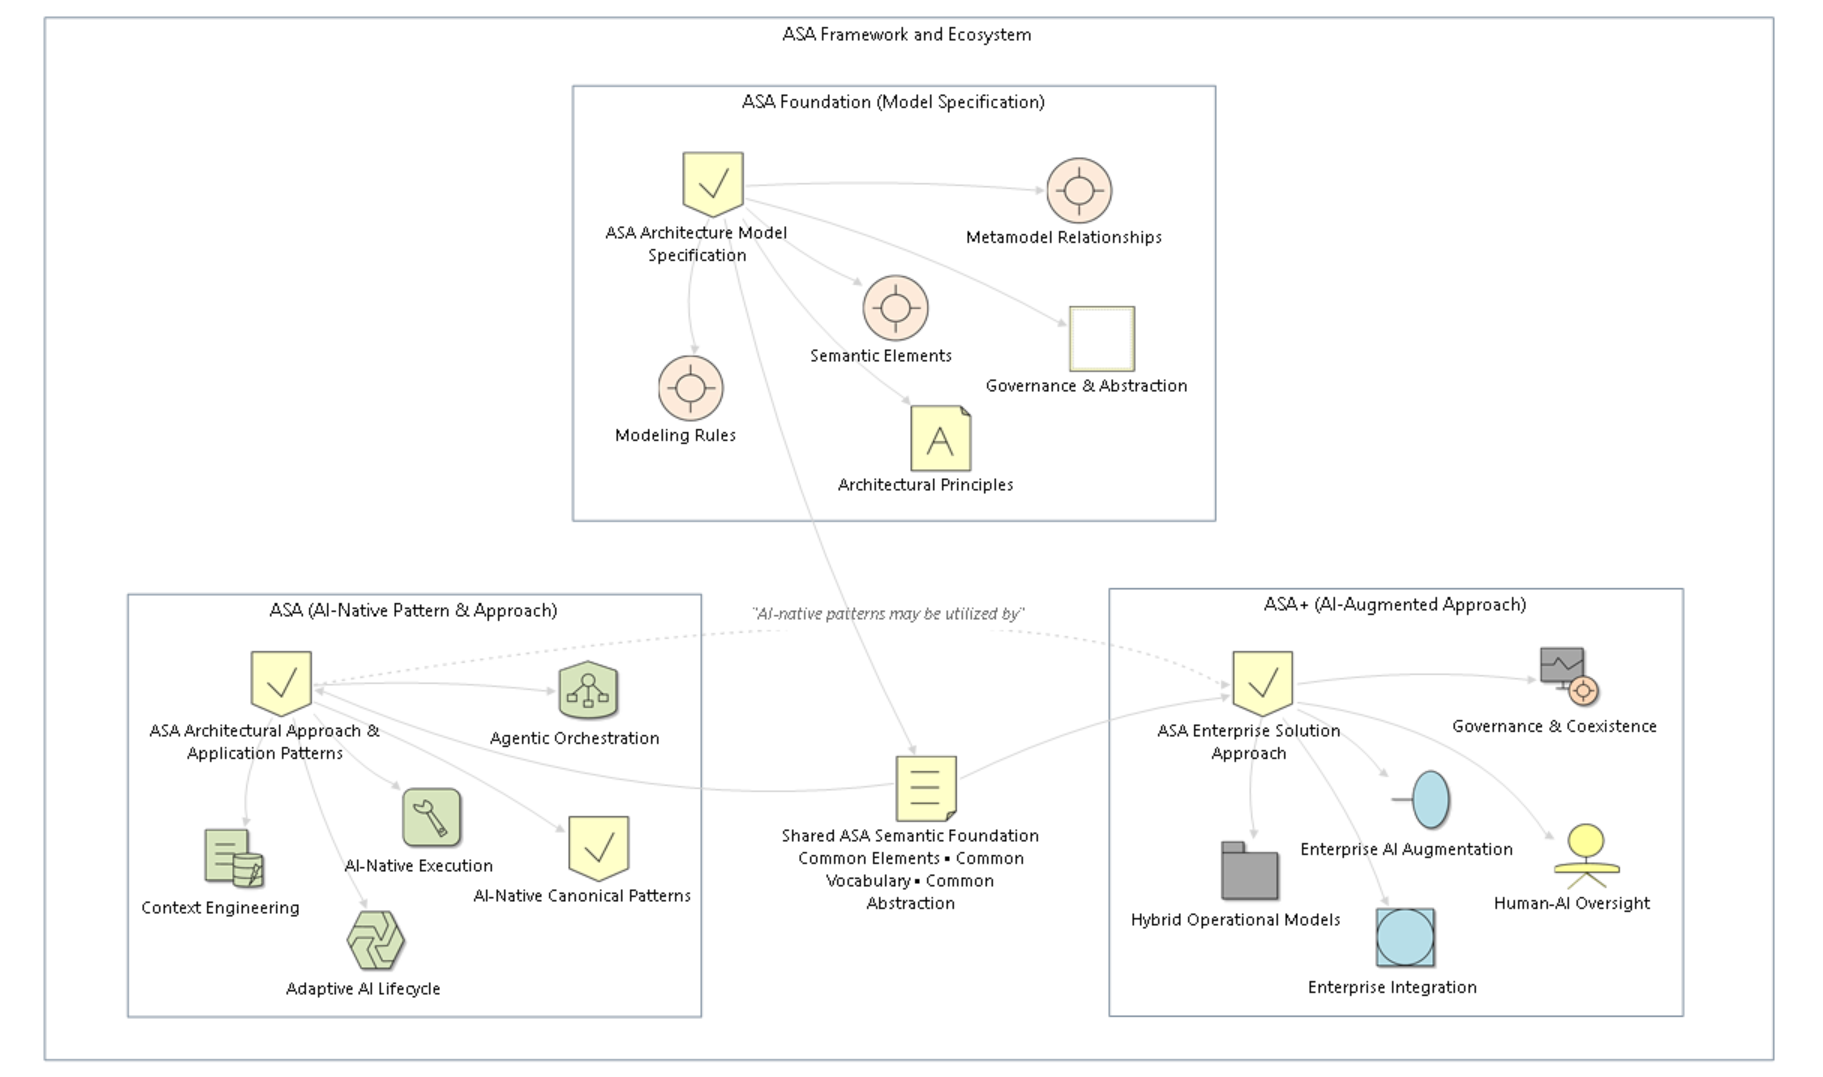
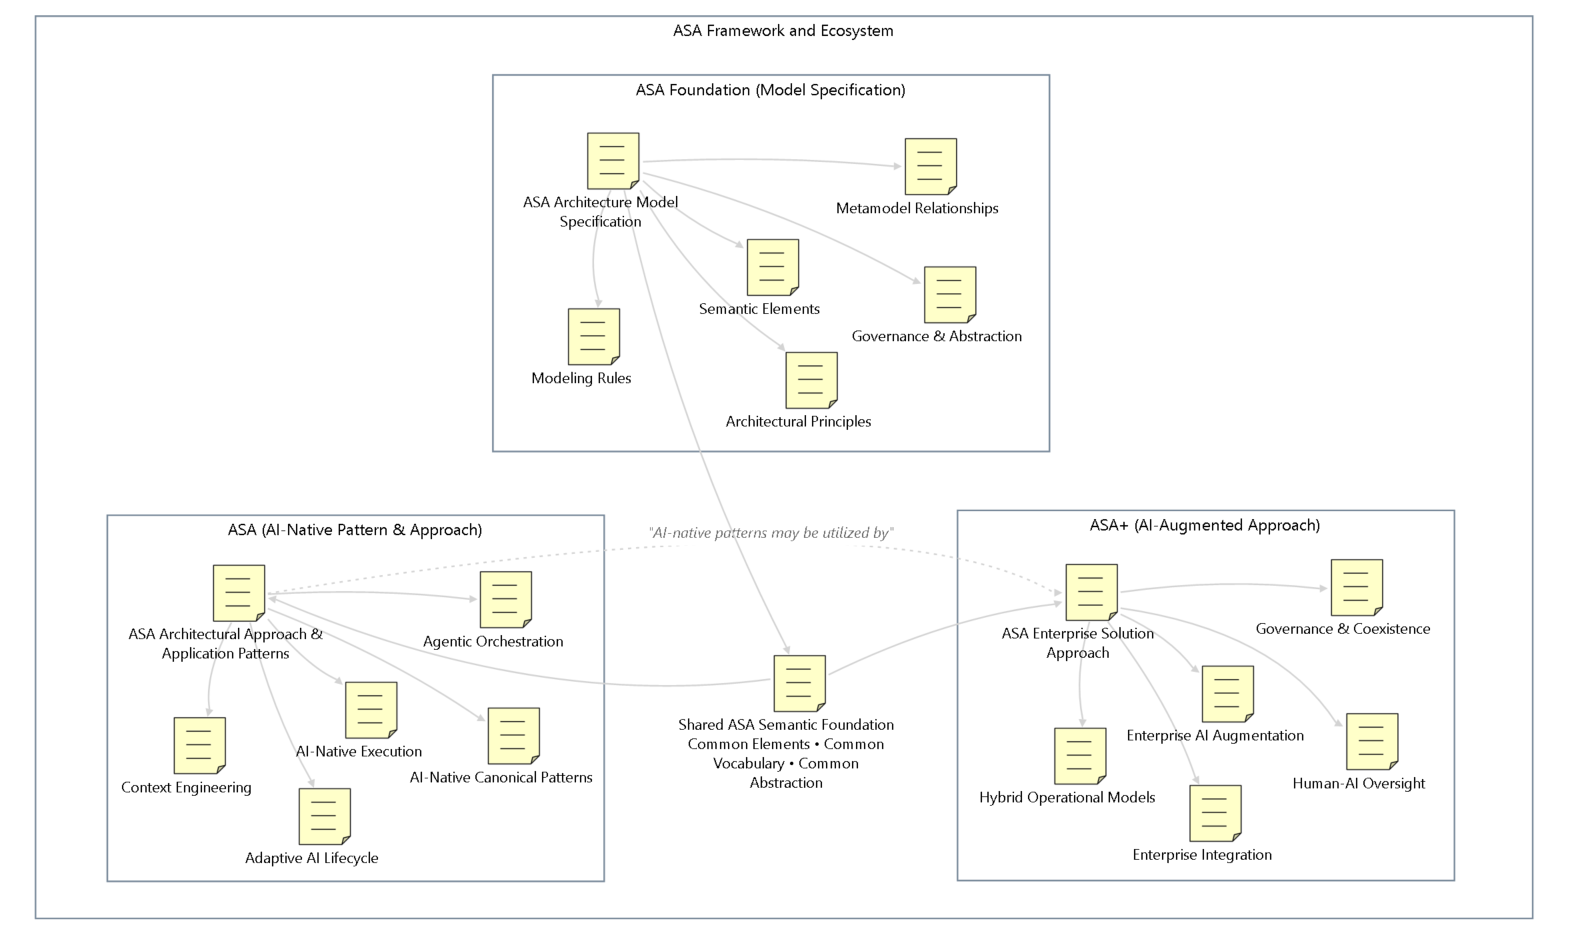
asa proofreading

diff --git a/docs/relationship-of-ai-esa-to-aisa-and-aasa.md b/docs/relationship-of-ai-esa-to-aisa-and-aasa.md
@@ -1,6 +1,6 @@
-# Relationship of the ASA Model Specification to ASA and ASA+ Apporaches
+# Relationship of the ASA Model Specification to ASA and ASA+ Approaches
 
-This section briefly describes the relationship among ASA (AI Solution Architecture) model specification, ASA (AI Solution Architecture Approach & Pattern), and AIS+ (AI-Augmented Solution Architecture Approach). Figure 1 shows the overall relationship.
+This section briefly describes the relationship among ASA (AI Solution Architecture) model specification, ASA (AI Solution Architecture Approach & Pattern), and ASA+ (AI-Augmented Solution Architecture Approach). Figure 1 shows the overall relationship.
 
 ![ASA Relationships](images/asa-relationships.png "ASA Relationships")
 
@@ -8,7 +8,7 @@ This section briefly describes the relationship among ASA (AI Solution Architect
 
 ## ASA Model’s Emphasis on ASA and ASA+
 
-The ASA elements are used in both ASA and ASA+ approaches, but they differ in terms of primary emphasis, architectural centrality, and operational dominance. Table 1 illustrates how elements are prioritized across ASA and AIS+, categorized as primary, secondary, or shared/foundation elements.
+The ASA elements are used in both ASA and ASA+ approaches, but they differ in terms of primary emphasis, architectural centrality, and operational dominance. Table 1 illustrates how elements are prioritized across ASA and ASA+, categorized as primary, secondary, or shared/foundation elements.
 
 | **Element**          | **ASA Emphasis** | ASA+ Emphasis | **Notes**                                                     |
 | -------------------- | ---------------- | ------------- | ------------------------------------------------------------- |
@@ -47,7 +47,7 @@ The ASA elements are used in both ASA and ASA+ approaches, but they differ in te
 
 Note that AI-native does NOT mean "pure agents," or "everything autonomous."
 
-Real enterprise AI solutions still need:
+- Real enterprise AI solutions still need:
 
 - Orchestration and deterministic logic,
 
@@ -55,7 +55,7 @@ Real enterprise AI solutions still need:
 
 - Observability and operational control.
 
-Both ASA and ASA+ approaches use the ASA element specification for modeling. ASA focuses on AI-native and AI-primitive patterns, whereas AIS+ emphasizes AI-augmented solution architecture.
+Both ASA and ASA+ approaches use the ASA element specification for modeling. ASA focuses on AI-native and AI-primitive patterns, whereas ASA+ emphasizes AI-augmented solution architecture.
 
 ### Shared Core
 
@@ -73,9 +73,9 @@ Both ASA and ASA+ approaches use the ASA element specification and share a commo
 
 ### Key Differences
 
-Table 2 summarizes the key differences between ASA (AI-Native Solution Architecture) and AIS+ (AI-Augmented Solution Architecture) in their respective AI adoption strategies.
+Table 2 summarizes the key differences between ASA (AI-Native Solution Architecture) and ASA+ (AI-Augmented Solution Architecture) in their respective AI adoption strategies.
 
-| **Aspect**                     | **ASA(AI Solution Architecture)**                                      | **ASA+ (AI-Augmented Solution Architecture)**                                                   |
+| **Aspect**                     | **ASA (AI Solution Architecture)**                                     | **ASA+ (AI-Augmented Solution Architecture)**                                                   |
 | ------------------------------ | ---------------------------------------------------------------------- | ----------------------------------------------------------------------------------------------- |
 | Primary Orientation            | AI-native execution orientation                                        | Enterprise coexistence orientation                                                              |
 | Core Philosophy                | AI-first operationalization                                            | Gradual AI absorption and coexistence                                                           |
@@ -104,7 +104,7 @@ Or, more simply, their differences can be expressed as follows:
 
 - agent-first abstraction
 
-**AIS+**
+**ASA+**
 
 - enterprise coexistence
 
@@ -114,7 +114,7 @@ Or, more simply, their differences can be expressed as follows:
 
 - operational continuity
 
-In summary, ASA model serves as the foundational specification and semantic abstraction. ASA represents an AI-native architectural operationalization approach. AIS+, in contrast, is an enterprise architecture focused on AI coexistence and augmentation.
+In summary, ASA model serves as the foundational specification and semantic abstraction. ASA represents an AI-native architectural operationalization approach. ASA+, in contrast, is an enterprise architecture focused on AI coexistence and augmentation.
 
 ## About ASA Naming
 
@@ -128,15 +128,15 @@ Within this context:
 
 - **ASA Approach** = the AI-native architectural domain, approach, and practice
 
-- **AIS+** = the adaptive, integrative, and AI-augmented architectural extension approach
+- **ASA+** = the adaptive, integrative, and AI-augmented architectural extension approach
 
-For terminology alignment and continuity, AIS-related concepts may also be referred to as:
+For terminology alignment and continuity, ASA-related concepts may also be referred to as:
 
 - **AI-ESA** (AI Enterprise Solution Architecture), referring to the ASA model or framework foundation
 
 - **AISA** (AI Solution Architecture), referring to ASA approach
 
-- **AASA** (AI-Augmented Solution Architecture), referring to AIS+ approach
+- **AASA** (AI-Augmented Solution Architecture), referring to ASA+ approach
 
 In general usage, **ASA** represents the overall architectural language, framework family, and associated architectural landing approaches.
 

diff --git a/docs/ai-esa-specification.md b/docs/ai-esa-specification.md
@@ -30,7 +30,7 @@ ASA (also referred to as AI-ESA) is based on the enterprise solution architectur
 
 ## Modeling Approach
 
-ASA follows its foundational ESA modeling approach, which consists of six constituents: thinking framework, method specification (foundation specification), architectural styles, measurement criteria, governance techniques, and tool support derived from practical enterprise solution projects (see *References*). This document focuses only on the AIS element specification, which is a subset of the broader ESA modeling approach.
+ASA follows its foundational ESA modeling approach, which consists of six constituents: thinking framework, method specification (foundation specification), architectural styles, measurement criteria, governance techniques, and tool support derived from practical enterprise solution projects (see *References*). This document focuses only on the ASA element specification, which is a subset of the broader ESA modeling approach.
 
 ### Principle
 
@@ -97,7 +97,7 @@ Table 1 provides a brief definition of 30 ASA elements, usage examples or instan
 | Output               | Represents the results, recommendations, and responses produced by the solution.                                                                     | Generated artifacts, predictions, recommendations, confirmations, decisions, reports, notifications, feedback to users, and results produced by the solution.                                                                                                                                                                                                                                                                                                                                                       |
 | Note                 | Represents commentary, annotation, or interpretive explanation of the architecture.                                                                  | Clarifying comments on complex interactions, interpretive notes, and contextual explanations added to views for enhanced communication.                                                                                                                                                                                                                                                                                                                                                                             |
 
-*Table 1:  AIS Element Definition*
+*Table 1:  ASA Element Definition*
 
 ### Element Representative Notation
 
@@ -136,7 +136,7 @@ Table 2 presents the recommended prefixes and iconic notations used in the ASA s
 | Output               | OU         | ![Output](images/OU.png "Output")                             |
 | Note                 | NT         | ![Note](images/NT.png "Note")                                 |
 
-*Table 2: AIS Element Representative Notation*
+*Table 2: ASA Element Representative Notation*
 
 ### Element Category & Naming
 
@@ -373,11 +373,11 @@ For a more comprehensive model, the recommended views may also include: capabili
 
 ## Related ASA Architectural Approaches
 
-ASA is primarily designed for modeling **ASA approach and pattern** and **AIS+ approach**.
+ASA is primarily designed for modeling **ASA approach and pattern** and **ASA+ approach**.
 
 For descriptions and examples of ASA and ASA+, refer to their respective repositories: the ASA repository (see this [link](https://github.com/seniorgu/aisa/blob/main/docs/aisa-specification.md)) and the ASA+ repository (see this [link](https://github.com/seniorgu/aasa/blob/main/docs/aasa-specification.md)).
 
-For the relationship and relevance among ASA model spec, ASA, and AIS+, see this [link](https://github.com/seniorgu/ai-esa/blob/main/docs/relationship-of-ai-esa-to-aisa-and-aasa.md).
+For the relationship and relevance among ASA model spec, ASA, and ASA+, see this [link](https://github.com/seniorgu/ai-esa/blob/main/docs/relationship-of-ai-esa-to-aasa-and-aasa.md).
 
 ---
 

diff --git a/docs/ai-solution-spec-quick-link.md b/docs/ai-solution-spec-quick-link.md
@@ -55,4 +55,4 @@ Usage Notes
   
   - Physical equipment and *Robotic Systems* are not core ASA elements. When relevant, they should be represented as *System Device* elements or external system actors.
   
-  - Infrastructure concerns such as networks and storage topology are not core AIS elements, as they are peripheral to solution-level architecture. *Network* and *Location* elements are part of the broader ESA specification but are excluded from ASA scope.
+  - Infrastructure concerns such as networks and storage topology are not core ASA elements, as they are peripheral to solution-level architecture. *Network* and *Location* elements are part of the broader ESA specification but are excluded from ASA scope.